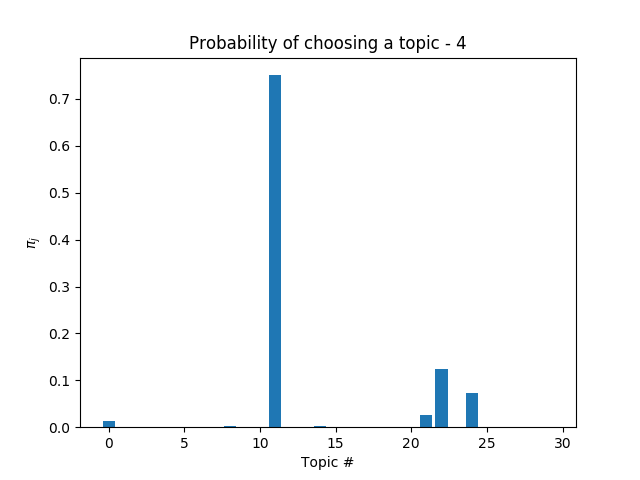
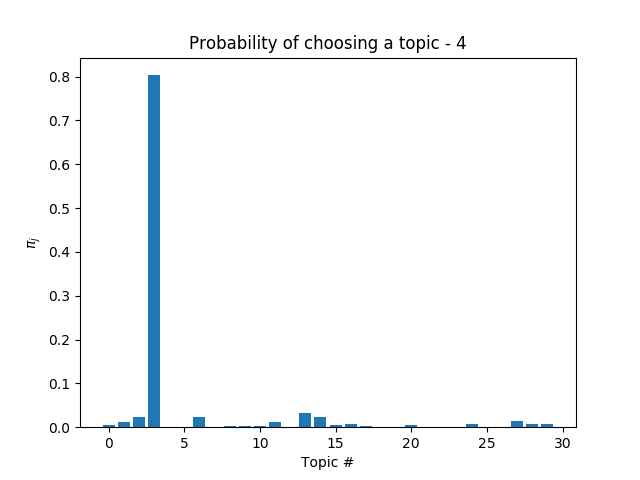
code runs faster and outputs more data

diff --git a/hw6/nips.py b/hw6/nips.py
@@ -6,13 +6,15 @@ import matplotlib as mpl
 mpl.use('Agg')
 import matplotlib.pyplot as plt
 np.set_printoptions(threshold=np.nan)
-epsilon  = 10.**-3
 
+epsilon  = 10.**-3
 SUBSET_DOC = 500
 SUBSET_WORDS = 100
+top_x_words = 10
+num_topics = 30
 
 
-class Theta(object):
+class TopicTheta(object):
     def __init__(self, num_topics, x):
         self.num_topics = num_topics
         self.num_words = x.shape[1]
@@ -77,16 +79,23 @@ class Theta(object):
 
         return w
 
-
+    def get_top_words(self, topx):
+        top_words = np.zeros((self.num_topics, topx), dtype=object)
+        for j in range(self.num_topics):
+            temp_id   = self.pvec[j].argsort()[::-1][:topx]
+            temp_pvec = self.pvec[j][temp_id]
+            for k in range(topx):
+                top_words[j,k] = (temp_id[k], temp_pvec[k])
+        return top_words
 
     # this function returns a 30x10 matrix "aka" the top ten words(10) for each topic(30)
-    def get_top_words(self):
-        top_words = np.zeros((2, 30,10))
+    def get_top_words_old(self, topx):
+        top_words = np.zeros((2, 30,topx))
         for j in range(self.num_topics):
             # self.pvec[j].argsort() : returns array of indexes corresponding from smallest to largest word probabilities for topic j
             # self.pvec[j].argsort()[::-1]  : returns array of indexes corresponding from largest to smallest word probabilities for topic j
             # self.pvec[j].argsort()[::-1][:10]  : returns array of indexes corresponding from largest to smallest(max 10) word probabilities for topic j
-            top_words[0, j] = self.pvec[j].argsort()[::-1][:10]
+            top_words[0, j] = self.pvec[j].argsort()[::-1][:topx]
             top_words[1, j] = self.pvec[j][top_words[0,j].astype(int)]
 
         return top_words
@@ -101,16 +110,13 @@ vocab   = open(vocab_path,   "r")
 num_documents = int(docword.readline())
 num_words     = int(docword.readline())
 num_entries   = int(docword.readline())
-num_topics = 30
 
 
 
-
-
-dictionary = [""]*num_words
-
+dictionary = np.zeros(num_words, dtype=object)
 for i in range(num_words):
     dictionary[i] = vocab.readline()
+
 
 
 data = np.zeros((num_documents, num_words))
@@ -118,19 +124,42 @@ for i in range(num_entries):
     doc_info = map(int, docword.readline().split())
     data[doc_info[0] - 1 , doc_info[1] - 1] = doc_info[2]
 
+
+total_words = data.sum(axis=0)
+
+subset_total_words = total_words[total_words < 200]
+fig = plt.figure()
+plt.hist(subset_total_words, bins="auto")
+plt.xlabel("word that appears $x$ times in all of the documents")
+plt.ylabel("number of words in the vocabulary")
+plt.title("frequency distribution of how many common/rare words there are")
+plt.savefig("word_occurence_frequencies")
+plt.close(fig)
+
+excluding_total_words = total_words < 15
+dictionary = dictionary[-excluding_total_words]
+data = data[:, -excluding_total_words]
+num_documents = data.shape[0]
+num_words = data.shape[1]
+
+
+print("Dictionary shape:" + str(dictionary.shape))
+print("Data shape: " + str(data.shape))
+
+"""
 data = data[:SUBSET_DOC, :SUBSET_WORDS]
 num_documents = data.shape[0]
 num_words = data.shape[1]
+"""
 
 
 print("number of documents (i): " + str(num_documents))
 print("number of topics (j): " + str(num_topics))
 print("number of words (k): " + str(num_words))
 
-
 ## Initial conditions
-theta = Theta(num_topics, data)
-for iteration in range(30):
+theta = TopicTheta(num_topics, data)
+for iteration in range(5):
     print("====Starting iteration " + str(iteration))
     w = theta.get_w(data)
     temp_pi = np.zeros(num_topics)
@@ -163,8 +192,19 @@ for iteration in range(30):
     plt.close(fig)
 print "All Done"
 
-top_words = theta.get_top_words()
-    for j in range(num_topics):
-        print("\ttopic: " + str(j))
-        for k in range(10):
-            print("\t\t" + str(k) + "the most popular word:" + str(dictionary[top_words[0,j,k].astype(int)]) + " with probability: " + str(top_words[1,j,k]))
+top_words_csv = open('top_words.csv', 'w')
+top_words_csv.write("topic, ")
+for i in range(top_x_words):
+    top_words_csv.write(str(i+1) + "th word and probability, ")
+top_words_csv.write("\n")
+
+
+top_words = theta.get_top_words(top_x_words)
+for j in range(top_words.shape[0]):
+    top_words_csv.write(str(j+1) + ", ")
+    for k in range(top_words.shape[1]):
+        temp_id, temp_p = top_words[j,k]
+        top_words_csv.write(dictionary[temp_id].rstrip() + " " + str(round(temp_p,3)) + ", ")
+    top_words_csv.write("\n")
+
+top_words_csv.close()
